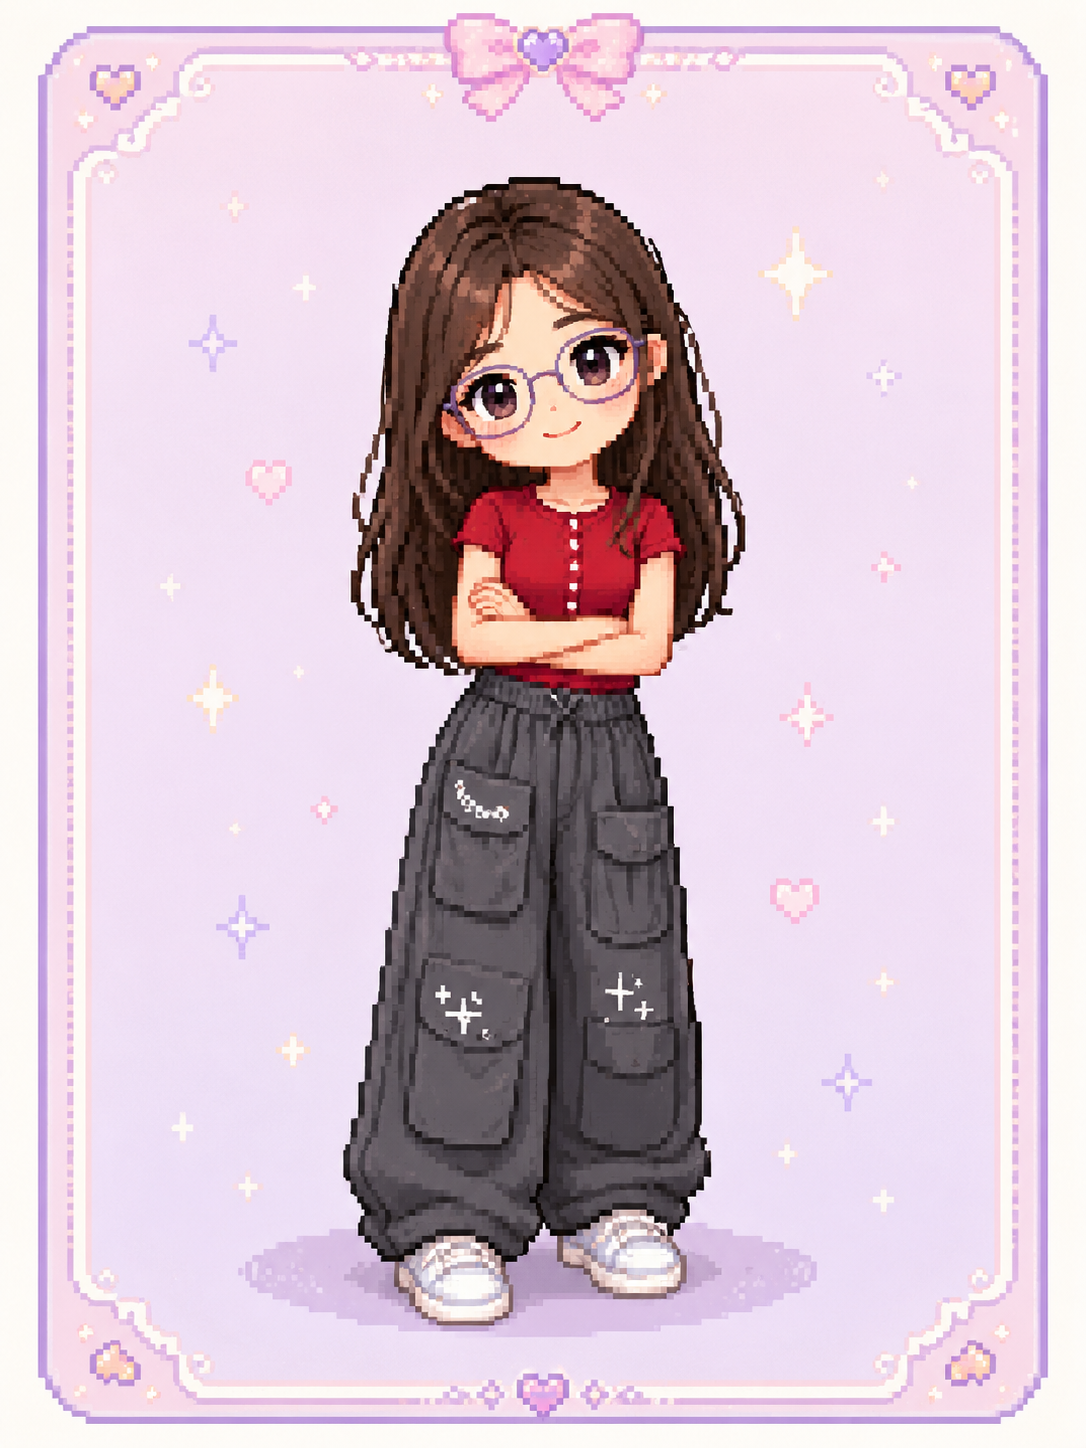
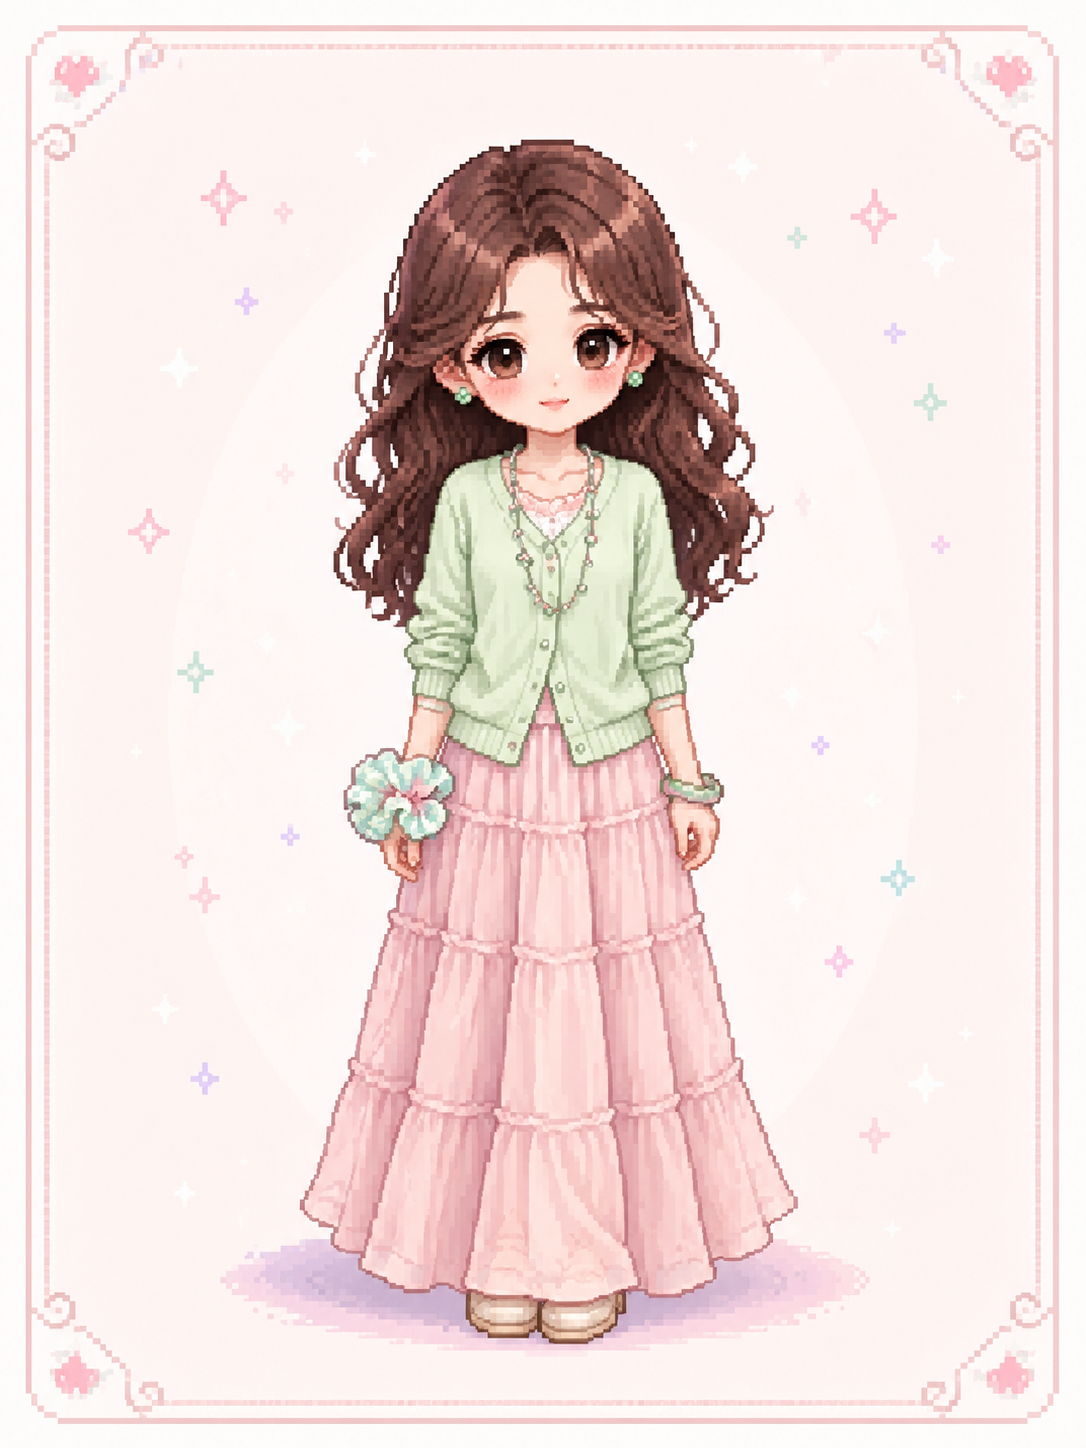
fix: restore approved pixel card prompt

diff --git a/services/backend/src/stylecapture_backend/features/render/pixel_card_style.py b/services/backend/src/stylecapture_backend/features/render/pixel_card_style.py
@@ -7,7 +7,7 @@ from importlib.resources import files
 
 from stylecapture_backend.features.capture.domain import ImagePayload
 
-PIXEL_CARD_STYLE_REFERENCE_VERSION = "pixel-card-style-v1"
+PIXEL_CARD_STYLE_REFERENCE_VERSION = "pixel-card-style-v2-candidate"
 PIXEL_CARD_SEED = 482731
 # Seedream 5.0 rejects guidance_scale. Keep this explicit so both pixel-card
 # entry points omit the provider-incompatible field while sharing one contract.
@@ -20,19 +20,17 @@ _STYLE_REFERENCE_NAMES = (
 
 _PIXEL_CARD_RULES = (
     "生成竖版 3:4 单人全身像素角色卡。{image_roles}"
-    "以人物动作的整体外接框居中，保留头顶、鞋底、手部和四周留白，脚下放轻量椭圆地毯。"
-    "保留内容图中可见的发型、发饰、眼镜、表情、身材比例、服装版型、主辅色、鞋履和关键配饰；"
-    "姿势也是人物内容，不要自动改成双臂垂下的正面立正。优先保留躯干朝向、头部倾斜、四肢弯曲、双臂方向和手部位置；"
-    "为容纳伸展动作应缩小人物而不是收回或裁切手臂。若无法完全复现，至少保留主导动作剪影："
-    "原本抬起或外伸的手臂仍须抬起或外伸，并保持身体重心，禁止改成僵直对称站姿。"
-    "如果内容图只有半身，只补全不可见的下装与鞋履，并让补全部分与可见上装自然协调。"
-    "使用较粗且一致的方格像素、清晰阶梯边缘和有限色阶；不要平滑线条、写实纹理、3D质感或低清放大滤镜。"
-    "面部适度美化，眼睛略大、有神且符合人物气质，表情仍以内容图为准。"
-    "移除内容图原背景。根据服装颜色、款式、正式度和气质选择卡片的两种主色与一种点缀色："
-    "正式或中性穿搭更克制，休闲或甜美穿搭更轻盈，酷感穿搭可提高对比。"
-    "背景加入1至3类轻量漂浮简笔像素图标和少量光点，图标颜色呼应穿搭；"
-    "图标主题可从原场景语义提炼，但只保留符号，不画完整场景。"
-    "不可纯色空白，不可复刻原场景，也不可变成细节繁重的房间或街景。"
+    "按人物动作外接框居中，完整保留头顶、手臂和鞋底，四周留白，脚下放椭圆像素地毯。"
+    "忠实保留内容图的身份、表情、身材、发型、眼镜、服装版型与配色、鞋履和关键配饰。"
+    "姿势属于人物内容：保留躯干朝向、头部倾斜、四肢方向和身体重心，不改成对称立正；"
+    "伸展动作通过缩小人物完整容纳。半身图只自然补全不可见的下装与鞋履。"
+    "外轮廓使用清晰偏粗的阶梯像素；脸部、头发和服装内部使用中细像素与有限色阶柔和抖色，"
+    "用明暗层级概括发丝、衣褶和材质，避免硬黑描边、写实纹理和马赛克滤镜。"
+    "面部适度美化且仍可辨认：眼睛较大圆润有高光，脸型短而柔和，五官集中；"
+    "表情仍以内容图为准，避免小眼睛、长中庭和低幼娃娃。"
+    "移除原背景。由穿搭主辅色、配饰和气质延伸出柔和有色浅底，避免大面积纯白或中性灰。"
+    "加入细像素边框、1至3类小尺寸低对比主题图标和少量光点；图标从原场景语义抽象，"
+    "颜色呼应穿搭，单个不超过人物头宽四分之一，不画完整场景。"
     "不要文字、品牌、水印、额外人物、重复肢体或裁切鞋履。"
 )
 

diff --git a/services/backend/tests/pixel_trial/test_pixel_trial_processing.py b/services/backend/tests/pixel_trial/test_pixel_trial_processing.py
@@ -133,9 +133,12 @@ async def test_pixel_trial_records_capability_prompt_and_schema_versions() -> No
     assert stored.provider_trace is not None
     assert stored.provider_trace.parameters["capability_id"] == "photo.pixel_trial"
     assert stored.provider_trace.parameters["capability_alias"] == "image_generation"
-    assert stored.provider_trace.parameters["prompt_version"] == "photo-pixel-trial-zh-v5"
+    assert stored.provider_trace.parameters["prompt_version"] == "photo-pixel-trial-zh-v8-candidate"
     assert stored.provider_trace.parameters["schema_version"] == "generated-image-v1"
-    assert stored.provider_trace.parameters["style_reference_version"] == "pixel-card-style-v1"
+    assert (
+        stored.provider_trace.parameters["style_reference_version"]
+        == "pixel-card-style-v2-candidate"
+    )
     assert generator.size == "1728x2304"
     assert generator.seed == PIXEL_CARD_SEED
     assert PIXEL_CARD_GUIDANCE_SCALE is None
@@ -171,16 +174,21 @@ async def test_pixel_trial_converts_heic_subject_before_render_provider() -> Non
 
 def test_pixel_trial_prompt_preserves_the_subject_without_fixed_decoration() -> None:
     assert "3:4" in PIXEL_TRIAL_PROMPT
-    assert "服装颜色、款式、正式度和气质" in PIXEL_TRIAL_PROMPT
-    assert "不可纯色空白" in PIXEL_TRIAL_PROMPT
-    assert "从原场景语义提炼" in PIXEL_TRIAL_PROMPT
-    assert "不可复刻原场景" in PIXEL_TRIAL_PROMPT
+    assert "由穿搭主辅色、配饰和气质延伸" in PIXEL_TRIAL_PROMPT
+    assert "避免大面积纯白或中性灰" in PIXEL_TRIAL_PROMPT
+    assert "图标从原场景语义抽象" in PIXEL_TRIAL_PROMPT
+    assert "不画完整场景" in PIXEL_TRIAL_PROMPT
     assert "不继承示例卡片的背景配色或装饰主题" in PIXEL_TRIAL_PROMPT
-    assert "头顶、鞋底" in PIXEL_TRIAL_PROMPT
-    assert "姿势也是人物内容" in PIXEL_TRIAL_PROMPT
-    assert "为容纳伸展动作应缩小人物" in PIXEL_TRIAL_PROMPT
-    assert "禁止改成僵直对称站姿" in PIXEL_TRIAL_PROMPT
-    assert len(PIXEL_TRIAL_PROMPT) < 700
+    assert "头顶、手臂和鞋底" in PIXEL_TRIAL_PROMPT
+    assert "姿势属于人物内容" in PIXEL_TRIAL_PROMPT
+    assert "伸展动作通过缩小人物完整容纳" in PIXEL_TRIAL_PROMPT
+    assert "不改成对称立正" in PIXEL_TRIAL_PROMPT
+    assert "眼睛较大圆润有高光" in PIXEL_TRIAL_PROMPT
+    assert "避免小眼睛、长中庭和低幼娃娃" in PIXEL_TRIAL_PROMPT
+    assert "鼻子只用" not in PIXEL_TRIAL_PROMPT
+    assert "单个不超过人物头宽四分之一" in PIXEL_TRIAL_PROMPT
+    assert "用明暗层级概括发丝、衣褶和材质" in PIXEL_TRIAL_PROMPT
+    assert len(PIXEL_TRIAL_PROMPT) < 650
 
 
 def _heic_payload(object_key: str) -> ImagePayload:

diff --git a/services/backend/tests/render/test_render_processing.py b/services/backend/tests/render/test_render_processing.py
@@ -401,13 +401,21 @@ async def test_processor_builds_real_collage_and_pixel_cover() -> None:
     assert stored_pixel.provider_trace.provider == "test-private"
     assert stored_pixel.provider_trace.parameters["capability_id"] == "look.pixel_cover"
     assert stored_pixel.provider_trace.parameters["capability_alias"] == "image_generation"
-    assert stored_pixel.provider_trace.parameters["prompt_version"] == "look-pixel-cover-zh-v6"
     assert (
-        stored_pixel.provider_trace.parameters["style_reference_version"] == "pixel-card-style-v1"
+        stored_pixel.provider_trace.parameters["prompt_version"]
+        == "look-pixel-cover-zh-v9-candidate"
+    )
+    assert (
+        stored_pixel.provider_trace.parameters["style_reference_version"]
+        == "pixel-card-style-v2-candidate"
     )
     assert "最后两张图只提供画风" in pixel_generator.prompt
     assert "3:4" in pixel_generator.prompt
-    assert "不可复刻原场景" in pixel_generator.prompt
+    assert "不画完整场景" in pixel_generator.prompt
+    assert "眼睛较大圆润有高光" in pixel_generator.prompt
+    assert "鼻子只用" not in pixel_generator.prompt
+    assert "避免大面积纯白或中性灰" in pixel_generator.prompt
+    assert "单个不超过人物头宽四分之一" in pixel_generator.prompt
     assert stored_pixel.provider_trace.parameters["schema_version"] == "generated-image-v1"
     assert len(pixel_generator.images) == 4
     assert pixel_generator.size == "1728x2304"

diff --git a/services/backend/src/stylecapture_backend/features/render/prompt_contracts.py b/services/backend/src/stylecapture_backend/features/render/prompt_contracts.py
@@ -5,7 +5,7 @@ from stylecapture_backend.features.render.pixel_card_style import build_pixel_ca
 
 PIXEL_COVER_CAPABILITY_ID = "look.pixel_cover"
 PIXEL_COVER_OUTPUT_SIZE = "1728x2304"
-PIXEL_COVER_PROMPT_VERSION = "look-pixel-cover-zh-v6"
+PIXEL_COVER_PROMPT_VERSION = "look-pixel-cover-zh-v9-candidate"
 PIXEL_COVER_SCHEMA_VERSION = "generated-image-v1"
 
 TRY_ON_CAPABILITY_ID = "look.virtual_try_on"
@@ -14,7 +14,7 @@ TRY_ON_SCHEMA_VERSION = "generated-image-v1"
 
 PIXEL_COVER_PROMPT = build_pixel_card_prompt(
     "前一至两张图是同一套 Look 的内容图，用于人物或服装轮廓、配色、材质和搭配关系；"
-    "最后两张图只提供画风、人物与脸部比例、粗像素颗粒、卡片留白和地毯结构。"
+    "最后两张图只提供画风、精致五官、轮廓像素、内部明暗层次、卡片留白和地毯结构。"
     "不继承示例卡片的背景配色或装饰主题。"
 )
 

diff --git a/services/backend/src/stylecapture_backend/features/pixel_trial/processing.py b/services/backend/src/stylecapture_backend/features/pixel_trial/processing.py
@@ -53,11 +53,11 @@ PIXEL_TRIAL_OUTPUT_SIZE = "1728x2304"
 
 
 PIXEL_TRIAL_PROMPT = build_pixel_card_prompt(
-    "图1是人物内容图；最后两张图只提供画风、人物与脸部比例、粗像素颗粒、卡片留白和地毯结构。"
+    "图1是人物内容图；最后两张图只提供画风、精致五官、轮廓像素、内部明暗层次、卡片留白和地毯结构。"
     "只从图1读取人物、服装与配饰，不继承示例卡片的背景配色或装饰主题。"
 )
 PIXEL_TRIAL_CAPABILITY_ID = "photo.pixel_trial"
-PIXEL_TRIAL_PROMPT_VERSION = "photo-pixel-trial-zh-v5"
+PIXEL_TRIAL_PROMPT_VERSION = "photo-pixel-trial-zh-v8-candidate"
 PIXEL_TRIAL_SCHEMA_VERSION = "generated-image-v1"
 
 

diff --git a/skills/pixel-character-card/references/style-contract.md b/skills/pixel-character-card/references/style-contract.md
@@ -4,8 +4,9 @@
 
 - 输出为竖版 3:4 卡片，单人完整全身居中；头顶、鞋底和四周保留呼吸空间，禁止 1:1 拉伸、压扁或裁脚。
 - 人物脚下有轻量椭圆地毯或柔和像素投影，用于稳定站立关系；不得做成写实地面场景。
-- 使用较粗且均匀的方格像素、清晰阶梯边缘、有限色阶。轮廓处能直接看出像素锯齿，而不是细腻插画叠一层马赛克滤镜。
-- 面部适度美化但保留身份和原表情；眼睛略大、有神、左右协调，不能缩成小点，也不能夸张成低幼娃娃。
+- 外轮廓使用清晰偏粗的方格像素和阶梯边缘；脸部、头发与服装内部使用中细像素、有限色阶和柔和抖色。重点部位细致、非重点部位简化，禁止把全图处理成同样粗糙的像素块。
+- 面部适度美化但保留身份和原表情；眼睛较大、圆润、有高光且左右协调，脸型短而柔和，五官集中。避免小眼睛、长中庭、粗黑硬线和低幼娃娃。
+- 用明暗层级表现发丝方向、服装版型、褶皱和材质；印花与纹样应清晰概括，不能退化成随机颗粒噪点。
 - 卡片边框轻盈、完整、不过度抢主体。正面案例中的粉紫色和蝴蝶结不是固定模板。
 
 ## 人物保真优先级
@@ -20,17 +21,15 @@
 
 - 删除原图写实背景，不复刻房间、砖墙、雕塑群、海滩或活动签名墙。
 - 从服装主色、辅色、正式度和气质中选择两种背景主色与一种点缀色，确保人物轮廓有足够对比。
-- 正式、中性或成熟穿搭：使用克制的低饱和中性色、蓝灰、米金等；避免大蝴蝶结、满屏粉色和密集爱心。
-- 休闲、甜美或清新穿搭：可用明亮柔和色，但保持轻盈而非低幼。
-- 酷感、运动或高对比穿搭：可提高明暗对比，使用更利落的边框和几何点缀。
-- 背景保留留白，同时加入 1 至 3 类轻量漂浮简笔像素图标。主题可从原场景语义或穿搭气质抽象，例如雕塑场景可用面具/小象轮廓，海边可用小浪花/贝壳，校园可用书本/星芒；图标必须简化成可爱线稿或块面符号。
+- 从服装主辅色、配饰和气质延伸出两种柔和有色背景色与一种点缀色，形成清新精致的浅色卡片底；不要因为穿搭正式、中性或黑灰而退回大面积纯白或中性灰。
+- 背景保留留白，同时加入 1 至 3 类小尺寸、低对比、分散的轻量漂浮简笔像素图标。单个装饰不超过人物头宽的四分之一；主题可从原场景语义或穿搭气质抽象，例如雕塑场景可用面具/小象轮廓，海边可用小浪花/贝壳，校园可用书本/星芒。甜美主题可以使用小蝴蝶结或爱心，但不得成为压过人物的顶部大装饰。
 - 用少量菱形光芒、圆点、爱心、星球、蝴蝶等通用小点缀平衡画面，但不要每张图都用同一组合。
 
 ## 禁止项
 
 - 纯色空白背景，或写实、细节繁重、压过主体的完整场景。
 - 固定粉紫色、固定蝴蝶结、固定爱心模板，无视人物性别、正式度和服装配色。
-- 微小细碎像素、照片级纹理、3D 渲染、油画笔触、平滑矢量线条或低清放大滤镜。
+- 全图同粗的生硬像素块、过重黑色描边、照片级纹理、3D 渲染、油画笔触、平滑矢量线条或低清放大滤镜。
 - 额外人物、重复肢体、错误手指、五官错位、裁切鞋履、文字、品牌、水印和伪造标牌。
 
 ## 验收清单
@@ -42,9 +41,9 @@
 3. 主导姿势和动态剪影得到保留；抬起或外伸的手臂没有全部被改成垂手立正。
 4. 发型、眼镜、表情等身份线索可辨认。
 5. 服装版型、颜色、鞋履和关键配饰与输入一致。
-6. 粗方格像素和阶梯边缘明显且全图一致。
-7. 面部好看自然，眼睛略大有神但不低幼。
+6. 外轮廓粗方格像素和阶梯边缘明显，内部像素更细并有自然明暗层次。
+7. 面部好看自然，眼睛较大圆润有高光，脸型柔和且不低幼。
 8. 脚下存在轻量地毯或像素投影。
 9. 背景配色呼应穿搭正式度与主辅色。
-10. 背景有 1 至 3 类轻量主题图标和少量点缀，既不空也不重。
+10. 背景有 1 至 3 类小尺寸轻量主题图标和少量点缀，既不空也不重。
 11. 无文字、水印、额外人物、畸形肢体或复杂原场景复刻。

diff --git a/skills/pixel-character-card/SKILL.md b/skills/pixel-character-card/SKILL.md
@@ -19,7 +19,7 @@ python scripts/generate_pixel_card.py /absolute/path/to/photo.jpg \
 ```
 
 4. 脚本通过 Product API 创建私人会话、上传原图、提交异步任务并轮询，成功后保存图片。接口细节见 [references/api-contract.md](references/api-contract.md)。
-5. 对照风格合同检查：画布必须为竖版 3:4、单人全身、头顶和鞋底完整、脚下有轻量地毯；人物为明显粗方格像素；保留原图的主导姿势，禁止把抬手、伸臂、侧身、坐姿等动态动作改成双臂垂下的僵直立正；背景不能空白，也不能复刻复杂原场景；背景配色和装饰必须服从穿搭，而不是固定粉色或蝴蝶结模板。
+5. 对照风格合同检查：画布必须为竖版 3:4、单人全身、头顶和鞋底完整、脚下有轻量地毯；人物外轮廓为明显粗方格像素，脸部、头发和服装内部保持精致层次；保留原图的主导姿势，禁止把抬手、伸臂、侧身、坐姿等动态动作改成双臂垂下的僵直立正；背景不能空白，也不能复刻复杂原场景；背景配色和小尺寸装饰必须服从穿搭，而不是固定粉色或蝴蝶结模板。
 6. 如果生成失败，报告脚本输出的错误码和可重试状态。不要在本地另写一套提示词绕过 Product API。
 
 ## 参数
